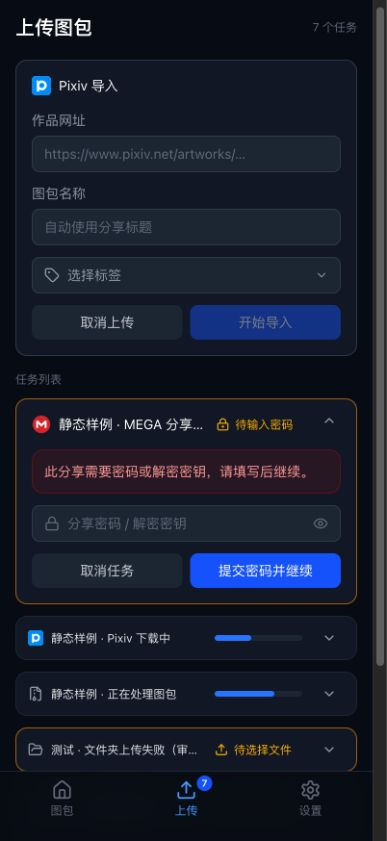
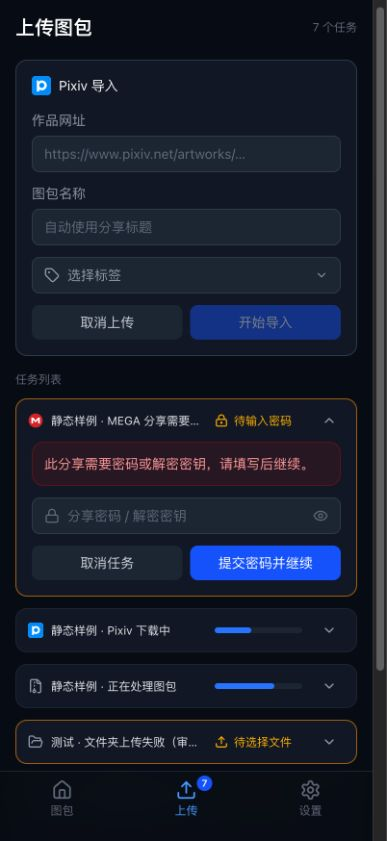
fix(client): reveal tasks as their cards expand

Changed region(s): [[0.031, 0.4946, 0.9302, 0.9275], [0.9612, 0.7729, 0.9922, 0.8038]]

diff --git a/client/src/pages/UploadPage.tsx b/client/src/pages/UploadPage.tsx
@@ -12,7 +12,7 @@ import PixivSettings from '../components/PixivSettings';
 import { ActionRow, Button, IconButton } from '../components/Button';
 import { TaskSourceTitle, TaskSummaryContent } from '../components/TaskSummary';
 import { taskErrorMessage } from '../lib/upload-task-display';
-import { getUploadScrollY, saveUploadScrollY, getHandledRevealRevision, setHandledRevealRevision, taskRevealDelta } from '../lib/upload-page-state';
+import { getUploadScrollY, saveUploadScrollY, getHandledRevealRevision, setHandledRevealRevision, taskRevealDelta, scrollWithTaskExpansion } from '../lib/upload-page-state';
 
 const labels: Record<UploadTask['status'], string> = {
   uploading: '上传中', downloading: '下载中', paused: '已暂停', needs_file: '等待原文件',
@@ -145,7 +145,7 @@ function UploadForm() {
       onChange={event => { select(Array.from(event.target.files || []), false); event.target.value = ''; }} />
     <input ref={folderInput} type="file" {...{ webkitdirectory: '', directory: '' }} className="hidden"
       onChange={event => { select(Array.from(event.target.files || []), true); event.target.value = ''; }} />
-    <div className={`upload-card-heading upload-form-heading ${draft.source ? '' : 'upload-empty-heading'}`} data-expanded="true">
+    <div className="upload-card-heading upload-form-heading" data-expanded="true">
       {draft.source ? <TaskSourceTitle source={draft.source} name={title} expanded />
         : <span className="flex items-center justify-center gap-2 text-sm text-gray-400"><Upload size={20} aria-hidden="true" />上传图包</span>}
     </div>
@@ -278,6 +278,7 @@ export default function UploadPage() {
   const stickyHeader = useRef<HTMLDivElement>(null);
   const stickyButton = useRef<HTMLButtonElement>(null);
   const taskListTitle = useRef<HTMLParagraphElement>(null);
+  const taskList = useRef<HTMLDivElement>(null);
   const [showSticky, setShowSticky] = useState(false);
   const [enteringIds, setEnteringIds] = useState(new Set<string>());
   const seenTasks = useRef(new Set(tasks.map(task => task.id)));
@@ -321,29 +322,41 @@ export default function UploadPage() {
     if (task) { expand(task.id); setSearchParams({}, { replace: true }); }
   }, [requestedTask, requestedFolder, tasks, expand, setSearchParams]);
 
-  useEffect(() => {
+  useLayoutEffect(() => {
     if (!expandedId || revealRevision === getHandledRevealRevision()) return;
-    const timer = setTimeout(() => {
-      const card = document.getElementById(`upload-card-${expandedId}`);
-      if (!card) return;
-      setHandledRevealRevision(revealRevision);
-      const rect = card.getBoundingClientRect();
-      const viewport = window.visualViewport;
-      const viewportTop = viewport?.offsetTop ?? 0;
-      const viewportBottom = viewportTop + (viewport?.height ?? window.innerHeight);
-      const navigationTop = document.querySelector('nav')?.getBoundingClientRect().top ?? viewportBottom;
-      const visibleBottom = Math.min(viewportBottom, navigationTop) - 8;
-      const listTop = taskListTitle.current?.getBoundingClientRect().top ?? formContainer.current?.getBoundingClientRect().bottom ?? 0;
-      const buttonBottom = (stickyButton.current?.offsetTop ?? 0) + (stickyButton.current?.offsetHeight ?? 0);
-      const headerHeight = stickyHeader.current?.offsetHeight ?? 0;
-      let visibleTop = viewportTop + (listTop < buttonBottom ? headerHeight : 0) + 8;
-      let delta = taskRevealDelta(rect.top, rect.bottom, visibleTop, visibleBottom);
-      // Scrolling down may reveal the floating header. Include that new obstruction.
-      visibleTop = viewportTop + (listTop - delta < buttonBottom ? headerHeight : 0) + 8;
-      delta = taskRevealDelta(rect.top, rect.bottom, visibleTop, visibleBottom);
-      if (Math.abs(delta) > 1) window.scrollBy({ top: delta, behavior: window.matchMedia('(prefers-reduced-motion: reduce)').matches ? 'instant' : 'smooth' });
-    }, 260);
-    return () => clearTimeout(timer);
+    const list = taskList.current;
+    const card = document.getElementById(`upload-card-${expandedId}`);
+    if (!list || !card) return;
+    setHandledRevealRevision(revealRevision);
+    // Measure mounted content at its natural height, including the space lost
+    // as preceding cards collapse. This gives the final bounds before paint.
+    let top = list.getBoundingClientRect().top;
+    let bottom = top;
+    for (const frame of Array.from(list.children)) {
+      const details = frame.querySelector<HTMLElement>('.upload-task-details')!;
+      const article = frame.querySelector('article')!;
+      const content = details.firstElementChild?.firstElementChild as HTMLElement;
+      const spacing = parseFloat(getComputedStyle(article.parentElement!).paddingBottom);
+      const height = frame.classList.contains('is-exiting') ? 0
+        : article.getBoundingClientRect().height - details.getBoundingClientRect().height + spacing
+          + (details.dataset.open === 'true' ? content.getBoundingClientRect().height : 0);
+      if (frame === card) { bottom = top + height; break; }
+      top += height;
+    }
+    const viewport = window.visualViewport;
+    const viewportTop = viewport?.offsetTop ?? 0;
+    const viewportBottom = viewportTop + (viewport?.height ?? window.innerHeight);
+    const navigationTop = document.querySelector('nav')?.getBoundingClientRect().top ?? viewportBottom;
+    const visibleBottom = Math.min(viewportBottom, navigationTop) - 8;
+    const listTop = taskListTitle.current?.getBoundingClientRect().top ?? formContainer.current?.getBoundingClientRect().bottom ?? 0;
+    const buttonBottom = (stickyButton.current?.offsetTop ?? 0) + (stickyButton.current?.offsetHeight ?? 0);
+    const headerHeight = stickyHeader.current?.offsetHeight ?? 0;
+    let visibleTop = viewportTop + (listTop < buttonBottom ? headerHeight : 0) + 8;
+    let delta = taskRevealDelta(top, bottom, visibleTop, visibleBottom);
+    // Scrolling down may reveal the floating header. Include that new obstruction.
+    visibleTop = viewportTop + (listTop - delta < buttonBottom ? headerHeight : 0) + 8;
+    delta = taskRevealDelta(top, bottom, visibleTop, visibleBottom);
+    return scrollWithTaskExpansion(window.scrollY + delta);
   }, [expandedId, revealRevision]);
 
   return <div className="upload-panel mx-auto max-w-lg pb-4">
@@ -361,7 +374,7 @@ export default function UploadPage() {
     {error && <div role="alert" className="mb-4 rounded-xl border border-red-800/50 bg-red-900/20 p-3 text-sm text-red-300">{error}<Button variant="ghost" onClick={() => { void refresh(); }}>重试</Button></div>}
     {loading && <p role="status" className="py-4 text-center text-sm text-gray-500">正在读取上传任务…</p>}
     {tasks.length > 0 && <p ref={taskListTitle} className="mb-3 text-xs text-gray-500">任务列表</p>}
-    <div aria-label="上传任务列表">{tasks.map(task => <div id={`upload-card-${task.id}`} key={task.id} inert={exitingIds.has(task.id)}
+    <div ref={taskList} aria-label="上传任务列表">{tasks.map(task => <div id={`upload-card-${task.id}`} key={task.id} inert={exitingIds.has(task.id)}
       onAnimationEnd={event => {
         if (event.target === event.currentTarget) setEnteringIds(previous => new Set([...previous].filter(id => id !== task.id)));
       }}

diff --git a/client/src/lib/upload-page-state.ts b/client/src/lib/upload-page-state.ts
@@ -12,3 +12,37 @@ export function taskRevealDelta(top: number, bottom: number, visibleTop: number,
   if (top < visibleTop || bottom - top > visibleBottom - visibleTop) return top - visibleTop;
   return bottom - visibleBottom;
 }
+
+/** Start with the accordion and follow its growing scroll range instead of waiting for it. */
+export function scrollWithTaskExpansion(top: number): () => void {
+  const from = window.scrollY;
+  if (Math.abs(top - from) <= 1) return () => {};
+  if (window.matchMedia('(prefers-reduced-motion: reduce)').matches) {
+    window.scrollTo({ top, behavior: 'instant' });
+    return () => {};
+  }
+  const started = performance.now();
+  let frame = 0;
+  const cancel = () => {
+    cancelAnimationFrame(frame);
+    window.removeEventListener('wheel', cancel);
+    window.removeEventListener('touchstart', cancel);
+    window.removeEventListener('pointerdown', cancel);
+    window.removeEventListener('keydown', onKeyDown);
+  };
+  const onKeyDown = (event: KeyboardEvent) => {
+    if (['ArrowUp', 'ArrowDown', 'PageUp', 'PageDown', 'Home', 'End', ' '].includes(event.key)) cancel();
+  };
+  const step = (now: number) => {
+    const progress = Math.min(1, (now - started) / 240);
+    window.scrollTo({ top: from + (top - from) * (1 - (1 - progress) ** 3), behavior: 'instant' });
+    if (progress < 1) frame = requestAnimationFrame(step);
+    else cancel();
+  };
+  window.addEventListener('wheel', cancel, { passive: true });
+  window.addEventListener('touchstart', cancel, { passive: true });
+  window.addEventListener('pointerdown', cancel, { passive: true });
+  window.addEventListener('keydown', onKeyDown);
+  frame = requestAnimationFrame(step);
+  return cancel;
+}

diff --git a/client/src/components/TaskSummary.tsx b/client/src/components/TaskSummary.tsx
@@ -25,7 +25,7 @@ export function TaskSummaryContent({ task, message, layout = 'card', expanded = 
     && (task.status === 'processing' ? task.progress > 0 : task.totalBytes > 0);
   const label = task.status === 'failed' ? taskFailureLabel(task) : message ?? state.label;
   return <span className={`w-full min-w-0 items-center text-xs font-normal ${layout === 'toast' ? 'flex gap-2' : 'grid grid-cols-[minmax(0,2fr)_minmax(0,1fr)] gap-3'}`}>
-    <TaskSourceTitle source={task.source} name={task.name} expanded={expanded} />
+    <TaskSourceTitle source={task.source} name={task.name} />
     <span className={`flex min-w-0 items-center gap-1.5 ${state.color} ${layout === 'toast' ? 'max-w-[60%] shrink-0' : ''}`}>
       {!hasProgress && <StatusIcon size={14} aria-hidden="true" className={`shrink-0 ${task.status === 'processing' ? 'animate-spin' : ''}`} />}
       {hasProgress ? <span role="progressbar" aria-label={label} aria-valuemin={0} aria-valuemax={100} aria-valuenow={progress} className="h-1.5 w-full overflow-hidden rounded-full bg-gray-800">

diff --git a/client/src/styles/globals.css b/client/src/styles/globals.css
@@ -11,16 +11,12 @@
   padding: 0.375rem 3.5rem 0.375rem 0.75rem;
   text-align: left;
   cursor: pointer;
-  transition: padding 240ms ease;
 }
 .upload-card-heading > :first-child { width: 100%; min-height: 2rem; }
-.upload-card-heading[data-expanded="true"] {
-  padding: 0.625rem 3.5rem 0.625rem 1rem;
+.upload-card-heading.upload-form-heading {
+  padding: 0.625rem 1rem;
+  cursor: default;
 }
-.upload-card-heading.upload-form-heading { padding-right: 0.75rem; cursor: default; }
-.upload-card-heading.upload-form-heading[data-expanded="true"] { padding-right: 1rem; }
-.upload-card-heading.upload-empty-heading { padding-left: 0.75rem; }
-.upload-card-heading.upload-empty-heading[data-expanded="true"] { padding-left: 1rem; }
 .upload-card-heading:focus-visible { outline: 2px solid var(--color-blue-400); outline-offset: -2px; }
 .upload-card-chevron {
   position: absolute;

diff --git a/docs/design-system.md b/docs/design-system.md
@@ -33,10 +33,10 @@
 
 1. 选择文件/目录，或选择来源输入网址。Pixiv 服务端识别名称和作者标签；作者以外的作品标签不自动导入。识别不阻断导入，提前提交时后台补齐默认值。已创建标签不随取消删除。
 2. 上传、下载、解包、校验、生成预览统一使用任务卡片。已知总量时展示真实进度；未知总量仅显示阶段与活动指示，不能伪造百分比。
-3. 表单与任务共用标题行规范：折叠时来源图标16px、标题12px，上下内边距6px；展开时来源图标20px、标题14px，上下内边距10px，字号、图标尺寸及内边距通过240ms过渡。状态文字、状态图标和折叠按钮保持尺寸不变。每张展开卡片按「标题／摘要 → 提示 → 正文 → 底部操作」组织，提示的背景颜色仅覆盖提示本身。重复检测中的黄色块到「此图包可能已被上传过，请确认是否继续」结束；匹配图包是普通背景正文，最底部为左侧「取消任务」、右侧「继续上传」。不得用黄色大容器包住整个步骤，也不得在匹配图包中再放主操作。等待确认时保留任务；已能确定的错误立即在上传页展示。
+3. 任务标题行在展开和折叠时均保持来源图标16px、标题12px、上下内边距6px，左内边距12px，不随展开动画放大或移动。上传表单标题使用来源图标20px、标题14px、上下内边距10px。状态文字、状态图标和折叠按钮保持尺寸不变。每张展开卡片按「标题／摘要 → 提示 → 正文 → 底部操作」组织，提示的背景颜色仅覆盖提示本身。重复检测中的黄色块到「此图包可能已被上传过，请确认是否继续」结束；匹配图包是普通背景正文，最底部为左侧「取消任务」、右侧「继续上传」。不得用黄色大容器包住整个步骤，也不得在匹配图包中再放主操作。等待确认时保留任务；已能确定的错误立即在上传页展示。
 4. 失败卡片使用红色边框，状态不加「待处理」；能够判断时显示上传、下载、解压、校验或预览生成失败，否则显示处理失败。错误正文给出简短的用户说明，不直接显示路径、堆栈或命令输出；历史任务也遵循该规则。错误提供问题、原因、解决方式及适用操作：缺登录态指向来源配置；可恢复失败提供重试；坏压缩包或密码错误提示重新上传。失败图包允许删除，取消需要说明将删除当前任务并确认。
 5. 缩略图生成后允许查看预览。完成状态中「查看图包」为 secondary，「完成」为右侧 primary；确认后任务在原位置播放240ms退出动画，图包保留。当前展开任务移除后，展开原位置后面的下一个任务；没有后续任务时全部折叠，不回退到前一个任务或上传表单。取消任务同样播放退出动画。ugoira 展示动画标识，查看器提供播放/暂停。
-6. 所有来源共用服务端持久化任务列表，刷新后恢复，完成须确认才移除。只有任务列表组成 accordion，最多展开一项，也允许全部折叠。上传表单始终展开，独立于任务 accordion；展开任务不会隐藏或清空表单。任务创建后清空草稿，取消填写直接回到展开的上传入口。只有页面已挂载后新增的任务播放入场动画，切换 tab 或初次读取已有任务不播放；退出动画保留原位置。上传页滚动位置保存在内存，切换 tab 后恢复，已展开任务不触发重复滚动。点击展开任务后，待展开动画结束，将超出可用视野的部分滚入；可用视野排除顶部吸顶入口和底部导航，已经完整可见则保持位置，卡片高于可用区域时优先对齐顶部。遵循系统减少动态效果设置。
+6. 所有来源共用服务端持久化任务列表，刷新后恢复，完成须确认才移除。只有任务列表组成 accordion，最多展开一项，也允许全部折叠。上传表单始终展开，独立于任务 accordion；展开任务不会隐藏或清空表单。任务创建后清空草稿，取消填写直接回到展开的上传入口。只有页面已挂载后新增的任务播放入场动画，切换 tab 或初次读取已有任务不播放；退出动画保留原位置。上传页滚动位置保存在内存，切换 tab 后恢复，已展开任务不触发重复滚动。点击展开任务时立即根据正文自然高度和前序卡片折叠后的布局计算目标位置，与240ms展开动画同步滚入超出可用视野的部分；可用视野排除顶部吸顶入口和底部导航，已经完整可见则保持位置，卡片高于可用区域时优先对齐顶部。遵循系统减少动态效果设置。
 7. 「任务列表」滚动到顶部返回按钮底边的高度时，紧凑的吸顶返回入口开始以180ms渐入，反向滚动时渐出，下方保留左对齐灰色小字「任务列表」。空草稿入口为透明虚线按钮，已选择来源时为实色实线卡片，图标和标题与当前表单同步（如「Pixiv 导入」）；点击滚回页面顶部，表单重新进入视野时吸顶入口隐藏。吸顶入口不占文档流空间，任务卡片跟随页面正常滚动，不使用列表内部滚动。页面「上传图包」标题不吸顶，表单在文档中始终保持展开。其他 tab 收到待处理或完成状态时显示可跳转的底部 toast，刷新重新提示未处理任务；全屏查看时避开缩略图栏。
 
 ## 核心链路：浏览、查看与生成

diff --git a/docs/screenshots/upload-scroll/README.md b/docs/screenshots/upload-scroll/README.md
@@ -5,4 +5,4 @@ Local disposable fixtures, captured on October 3, 2026. No production data or cr
 - `form-and-task.jpg`: the Pixiv form remains expanded alongside an expanded task (402 × 874 viewport override).
 - `pixiv-sticky.jpg`: after the form leaves the viewport, its compact source button and task-list label stay above the scrolling cards (402 × 600 viewport override).
 
-Verified tab scroll restoration without replaying task entrance animations; minimal card reveal above the bottom navigation and below the floating header; oversized card heading alignment; returning to the retained form draft; canceling the draft without an intermediate collapsed state.
+Verified tab scroll restoration without replaying task entrance animations; card reveal starting alongside expansion, above the bottom navigation and below the floating header; fixed 12px task titles, 16px source icons and 6px heading padding; oversized card heading alignment; returning to the retained form draft; canceling the draft without an intermediate collapsed state.
